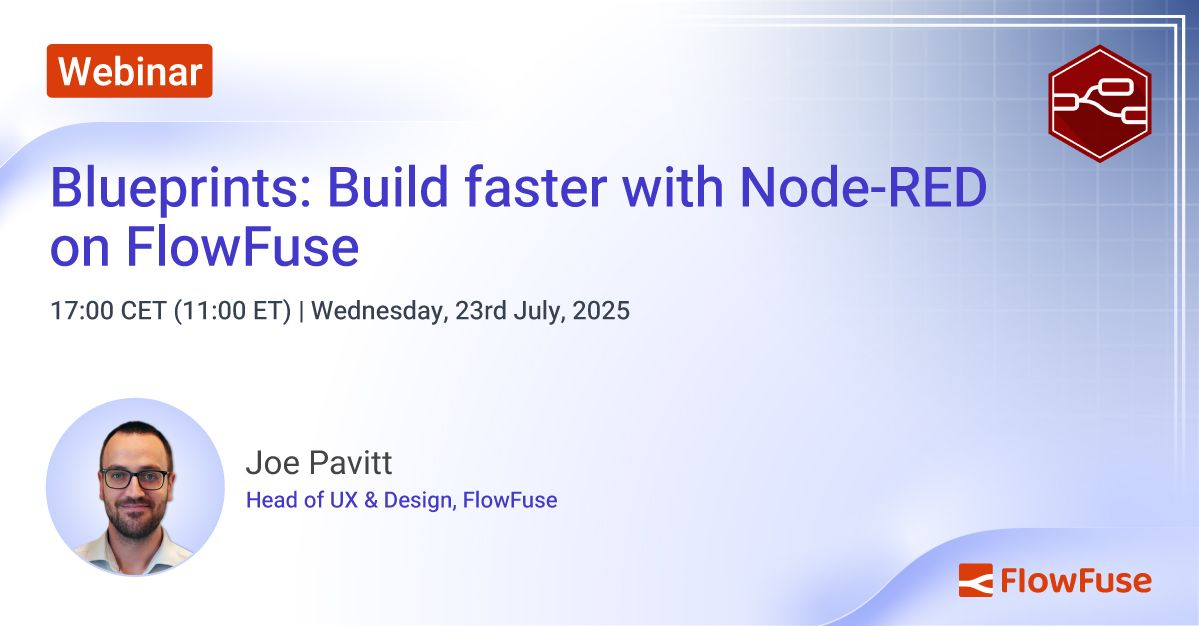
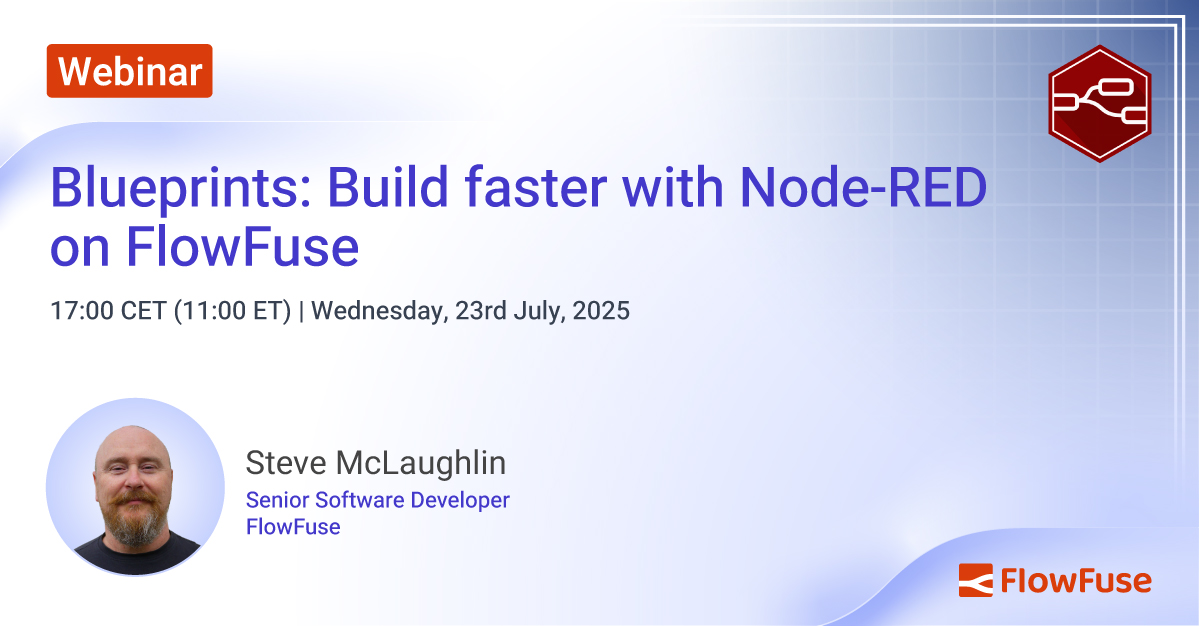
Update presenter

diff --git a/src/webinars/2025/blueprints-build-faster-with-node-red-on-flowfuse.md b/src/webinars/2025/blueprints-build-faster-with-node-red-on-flowfuse.md
@@ -8,7 +8,7 @@ date: 2025-07-23
 time: 17:00 CET (11:00am ET)
 duration: 60
 video: 
-hosts: ["joe-pavitt"]
+hosts: ["stephen-mclaughlin"]
 hubspot:
     formId: 0b0fd5c1-b5c3-488e-823a-ac2568a3c14d
     downloadFormId: 
@@ -21,7 +21,7 @@ Getting started on new projects often means losing time on repetitive setup, con
 
 ## What You'll Learn
 
-Join Joe Pavitt as he demonstrates how to:
+Join Steve McLaughlin as he demonstrates how to:
 
 - Quickly deploy pre-built Blueprints for real-world use cases like:
   - Simple **REST APIs** with database integrations
@@ -29,7 +29,7 @@ Join Joe Pavitt as he demonstrates how to:
   - **AI-powered agents** interacting via Node-RED
 - Reduce your dependency on expensive and complex software by using Node-RED and FlowFuse as a more **flexible, cost-effective solution**
 
-Joe will also share insights into the process FlowFuse uses to develop Blueprints, designed to balance ease of use with providing real value for your projects.
+Steve will also share insights into the process FlowFuse uses to develop Blueprints, designed to balance ease of use with providing real value for your projects.
 
 Whether you're automating factory processes, building IoT solutions, or streamlining internal tools, this session will show you how FlowFuse Blueprints help you move faster and get more value from your applications.
 
